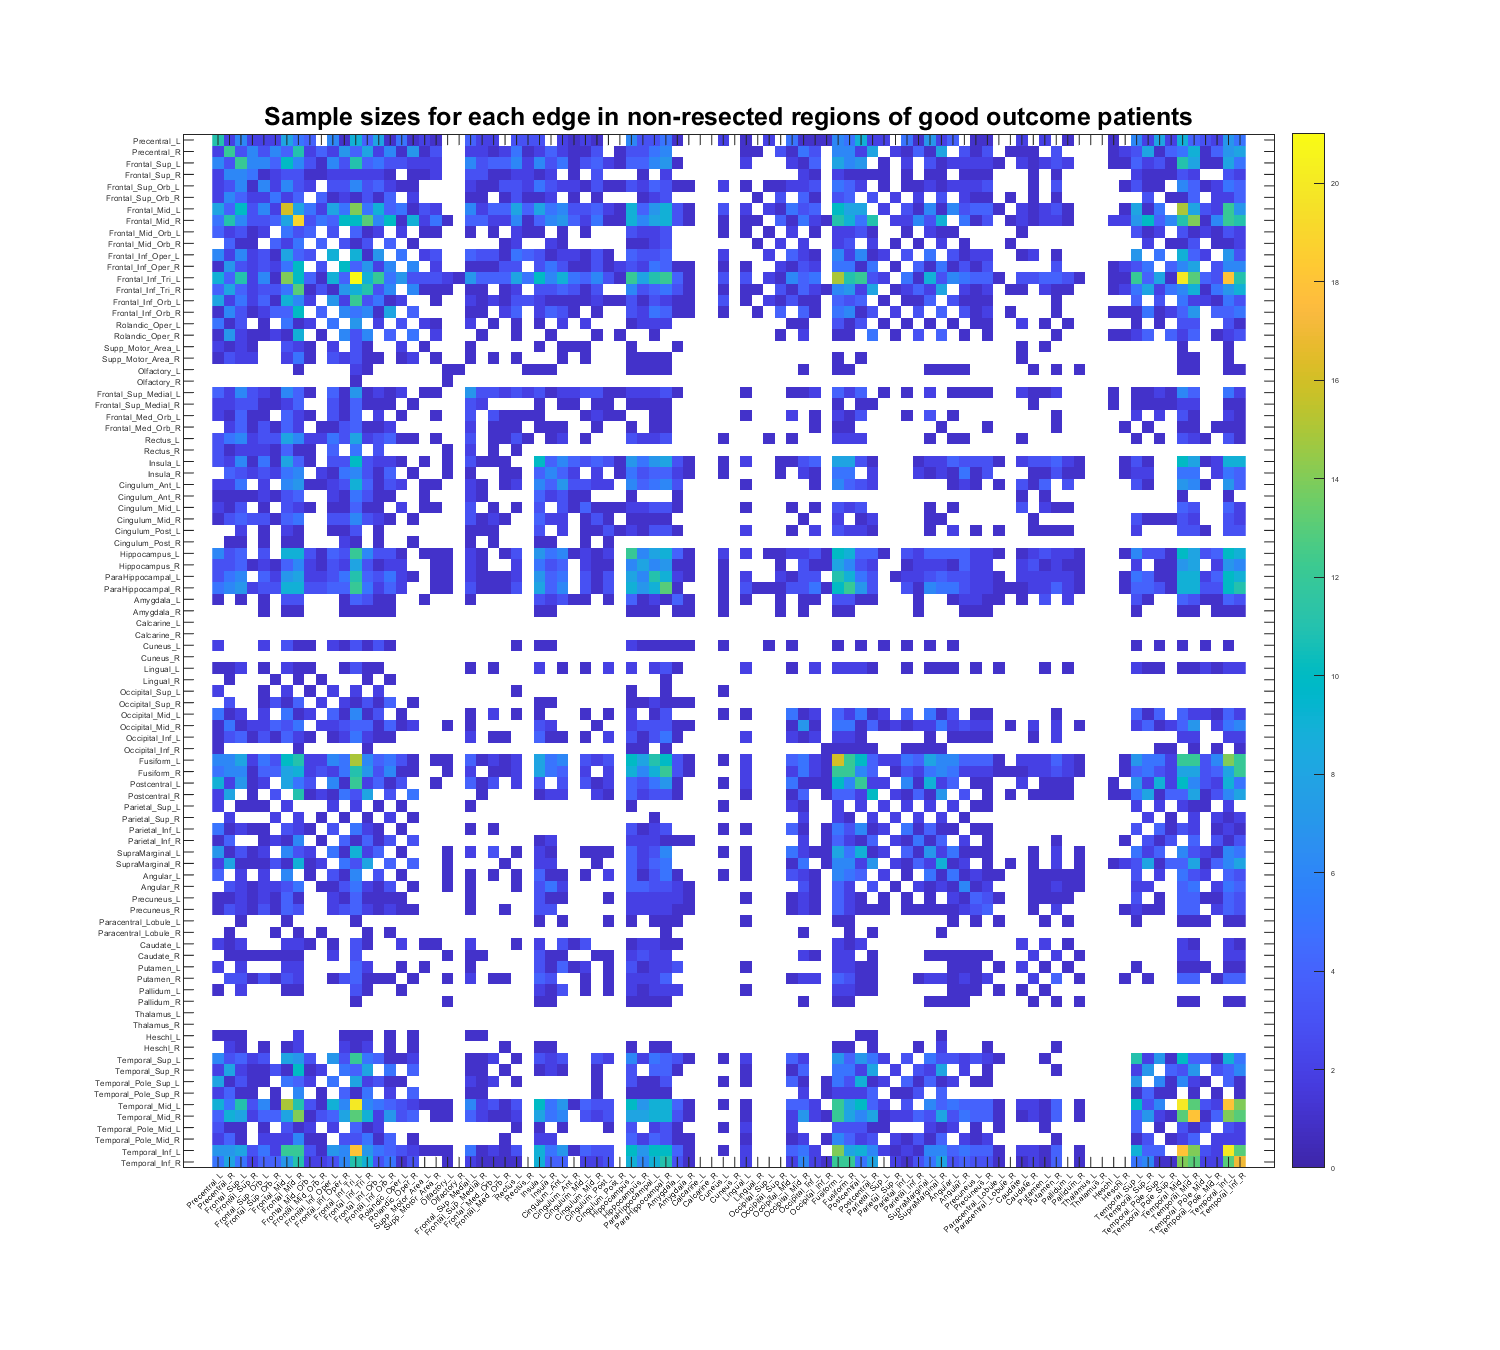
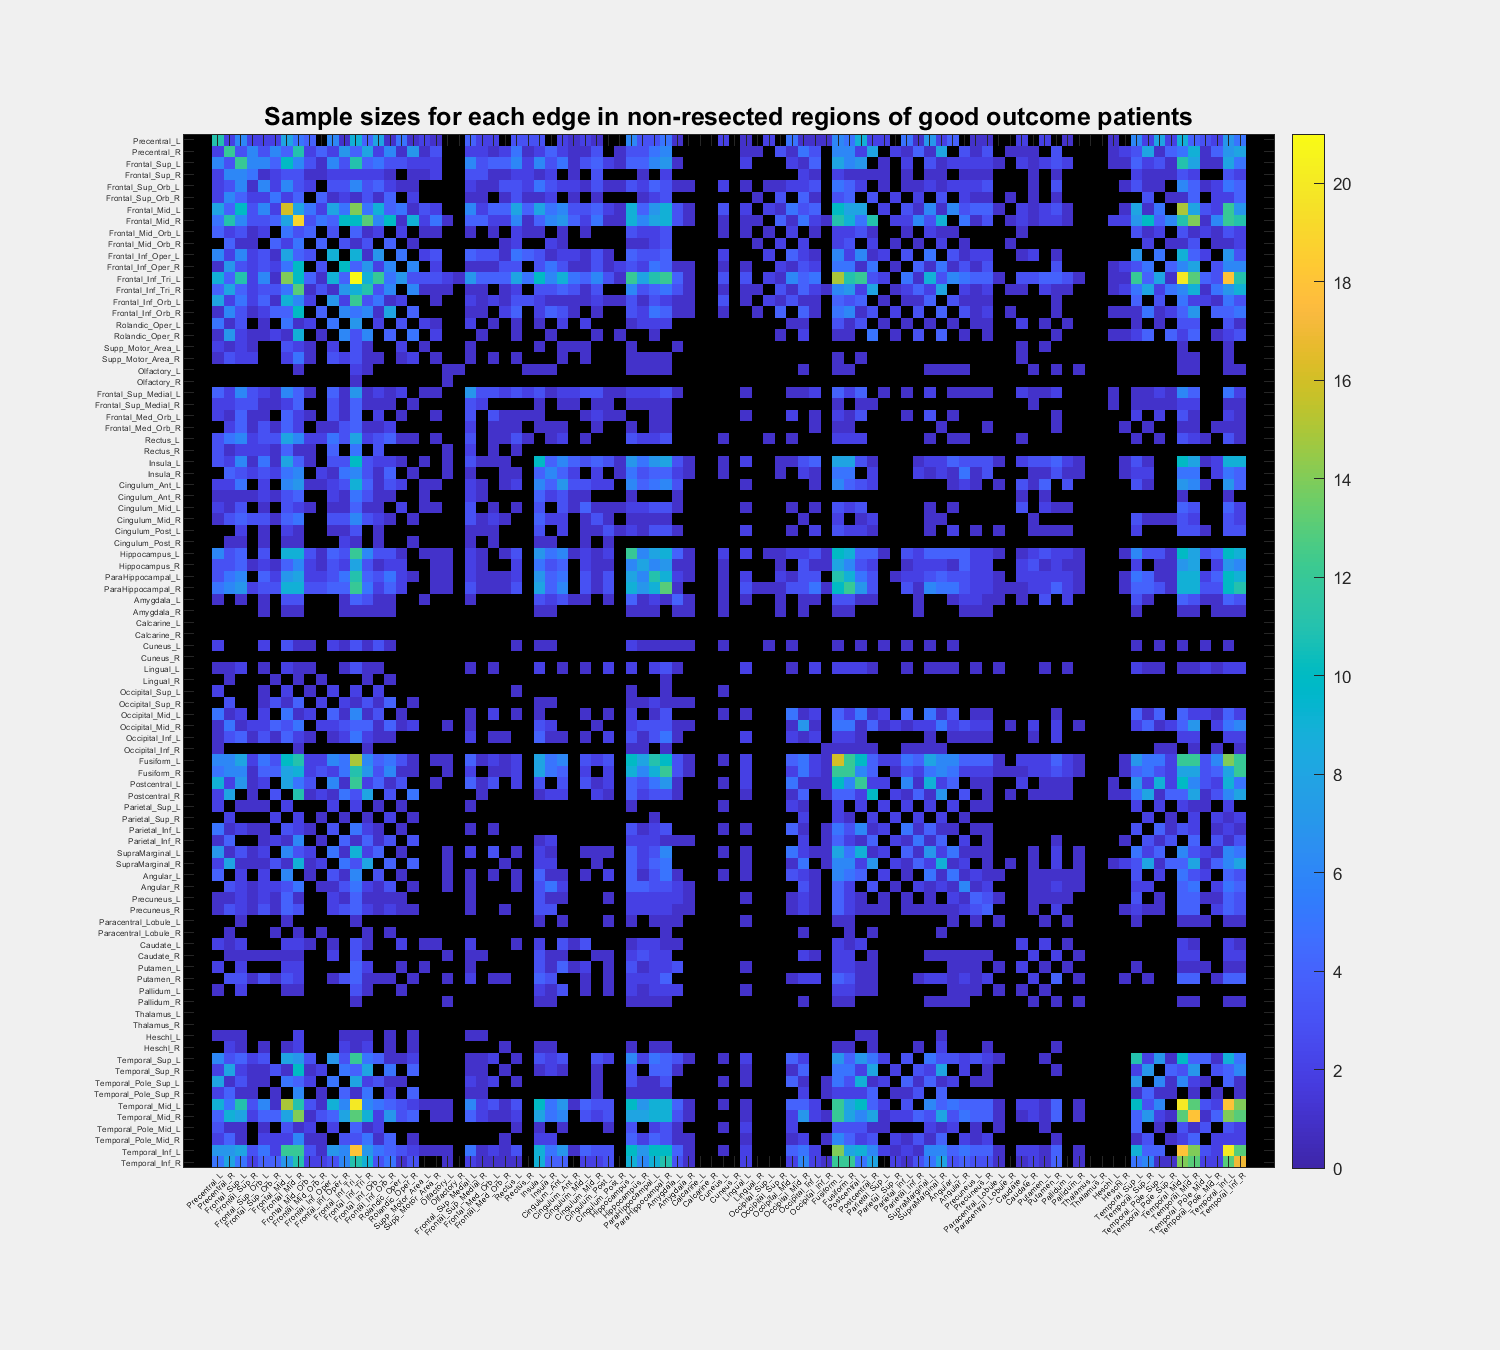
create_atlas_by_edge.m

Changed region(s): [[0.1227, 0.0933, 0.8587, 0.8711]]

diff --git a/util/create_atlas_by_edge.m b/util/create_atlas_by_edge.m
@@ -1,0 +1,138 @@
+function [mean_conn, std_conn, num_samples] = create_atlas_by_edge(all_conn, all_roi, all_resect, region_list, band, threshold)
+% [mean_conn, std_conn] = create_atlas_by_edge(all_conn, all_roi, all_resect, region_list)
+% takes in an array of conectivity structs, an array of 3D mni coordinate
+% arrays, an array of resected electrode vectors, and a vector containing
+% all mni labels, and outputs two matrices representing the average and
+% standard deviation of connections between all regions.
+%
+% Input:
+%   all_conn (cell): cell array containing patient connectivity structs in
+%   order
+%   all_roi (cell): cell array containing regions of interest corresponding
+%   to each electrode for each patient in order
+%   all_resect (cell): cell array containing patient resected electrode
+%   arrays in order
+%   region_list (double): array containing all region labels
+%   band (int): frequency band to be used
+%   threshold (int): minimum sample size required for edges to be
+%   incorporated into the atlas. Default value = 1
+%
+% Output:
+%   mean_conn (double): (i,j) matrix of mean connectivity strengths between 
+%   region_list(i) and region_list(j)
+%   std_conn (double): (i,j) matrix of standard deviations of connectivity 
+%   strengths between region_list(i) and region_list(j)
+%   num_samples (double): a matrix where entry (i,j) is the number of
+%   samples used to calculate the edge weight between region_list(i) and region_list(j)
+%
+% John Bernabei and Ian Ong
+% johnbe@seas.upenn.edu
+% ianzyong@seas.upenn.edu
+% 7/30/2020
+
+% helper function
+get_data = @(x) x(triu(true(size(x)),1));
+
+% sets default threshold value if none is given
+if ~exist('threshold','var'), threshold = 1; end
+
+% get number of patients
+num_patients = length(all_conn);
+
+% get number of regions
+num_regions = length(region_list);
+
+% initialize output arrays
+mean_conn = NaN(num_regions);
+std_conn = NaN(num_regions);
+num_samples = NaN(num_regions);
+
+% load in relevant matrices and resected electrodes for each patient
+band_matrices = cell(1,num_patients);
+resect_booleans = cell(1,num_patients);
+
+for p = 1:num_patients
+    % get resected electrodes for the patient
+    res_elec_inds = all_resect{p};
+    % orient vector vertically
+    res_elec_size = size(res_elec_inds);
+    if res_elec_size(1) == 1
+        res_elec_inds = res_elec_inds.';
+    end
+
+    % calculate logical with resected indices
+    try
+        resect_booleans{p} = cat(2,accumarray(res_elec_inds,1).',...
+        zeros(1,length(all_roi{p})-max(res_elec_inds)));
+    catch any_error
+        resect_booleans{p} = zeros(1,length(all_roi{p}));
+    end
+
+    % get connection strengths between each pair of electrodes
+    adj_matrix = all_conn{p};
+    % extract band data
+    band_matrices{p} = adj_matrix(band).data;
+end
+
+% double loop through regions
+for i = 1:num_regions % first region
+
+    for j = i:num_regions % second region
+        
+        % set up array to hold all edge values
+        edge_values_for_region_pair = cell(num_patients,1);
+        
+        % counter for number of data points for this region pair
+        sample_counter = 0;
+        
+        for p = 1:num_patients
+            
+            % get electrodes contained within first region
+            first_reg_elec = (all_roi{p} == region_list(i) & ~resect_booleans{p});
+        
+            % extract rows corresponding to electrodes in the first region
+            current_matrix = band_matrices{p};
+            first_reg_strengths = current_matrix(first_reg_elec,:);
+            
+            % get electrodes contained within second region
+            second_reg_elec = (all_roi{p} == region_list(j) & ~resect_booleans{p});
+
+            % extract connection strengths between the two regions
+            patient_strengths = first_reg_strengths(:,second_reg_elec);
+            
+            if i == j % loop case
+                % get only the upper triangular data since it's symmetric
+                patient_strengths = get_data(patient_strengths);
+            else % assuming regions are spatially disjoint
+                patient_strengths = patient_strengths(:);
+            end
+            
+            % add number of edges to the counter
+            sample_counter = sample_counter + length(patient_strengths);
+            
+            % store electrode edges for this region pair in this patient
+            edge_values_for_region_pair{p} = patient_strengths;
+            
+        end
+        
+        % record mean and std if the number of edges exceeds the threshold
+        if sample_counter >= threshold
+            % take the average and standard deviation of all edge values for
+            % the region pair and place both in the corresponding output arrays
+            mean_conn(i,j) = mean(cell2mat(edge_values_for_region_pair));
+            std_conn(i,j) = std(cell2mat(edge_values_for_region_pair));
+        end
+        
+        % record the number of edges for this region pair
+        num_samples(i,j) = sample_counter;
+        
+    end
+    
+end
+
+% symmetrize all output matrices
+mean_conn = triu(mean_conn) + tril(mean_conn.',-1);
+std_conn = triu(std_conn) + tril(std_conn.',-1);
+num_samples = triu(num_samples) + tril(num_samples.',-1);
+
+end

diff --git a/analysis/create_project_figures.m b/analysis/create_project_figures.m
@@ -229,9 +229,11 @@ for f = 1:5
     xtickangle(45)
     set(gca,'ytick',(1:90),'yticklabel',all_locs)
     set(gca,'fontsize', 4)
-    colorbar
+    cb = colorbar;
+    cb.FontSize = 8;
     title(sprintf('Connectivity atlas of non-resected regions in good outcome patients (band %d)',test_band),'fontsize',12)
-    save_name = sprintf('output/non_resected_good_outcome_atlas_band_%d.png',test_band);
+    save_name = sprintf('output/supplemental_figures/non_resected_good_outcome_atlas_band_%d.png',test_band);
+    fig.InvertHardcopy = 'off';
     saveas(fig,save_name) % save plot to output folder
 end
 
@@ -249,9 +251,11 @@ set(gca,'xtick',(1:90),'xticklabel',all_locs)
 xtickangle(45)
 set(gca,'ytick',(1:90),'yticklabel',all_locs)
 set(gca,'fontsize', 4)
-colorbar
+cb = colorbar;
+cb.FontSize = 8;
 title(sprintf('Sample sizes for each edge in non-resected regions of good outcome patients'),'fontsize',12)
 save_name = sprintf('output/supplemental_figures/non_resected_good_outcome_sample_sizes.png');
+fig.InvertHardcopy = 'off';
 saveas(fig,save_name) % save plot to output folder
 
 %%
@@ -1162,4 +1166,51 @@ end
 
 % quantify and compare results
 
+%% testing create_atlas_by_edge
+test_band = 1;
+test_threshold = 3;
+[mean_conn, std_conn, num_conn] = create_atlas_by_edge({cv_patients.conn}, {cv_patients.roi}, {cv_patients.resect}, region_list, test_band, test_threshold);
 
+figure;
+fig = gcf;
+set(fig,'defaultAxesTickLabelInterpreter','none'); 
+set(gcf,'Units','inches','Position',[(screen_dims(3)-figure_width)/2, (screen_dims(4)-figure_width)/2, figure_width, figure_width-1])
+imagesc(num_conn,'AlphaData',~(num_conn==0))
+axis(gca,'equal');
+set(gca,'color',0*[1 1 1]);
+set(gca,'xtick',(1:90),'xticklabel',all_locs)
+xtickangle(45)
+set(gca,'ytick',(1:90),'yticklabel',all_locs)
+set(gca,'fontsize', 4)
+cb = colorbar;
+cb.FontSize = 8;
+title(sprintf('Electrode-level sample sizes for each edge in non-resected regions of good outcome patients'),'fontsize',12)
+save_name = sprintf('output/supplemental_figures/non_resected_good_outcome_electrode_level_sample_sizes.png');
+fig.InvertHardcopy = 'off';
+saveas(fig,save_name) % save plot to output folder
+
+for f = 1:5
+    test_band = f;
+
+    % run all good outcome patients in atlas
+    [mean_conn, std_conn, num_conn] = create_atlas_by_edge({cv_patients.conn}, {cv_patients.roi}, {cv_patients.resect}, region_list, test_band, test_threshold);
+
+    % visualize adjacency matrices with labels added
+    figure;
+    fig = gcf;
+    set(fig,'defaultAxesTickLabelInterpreter','none'); 
+    set(gcf,'Units','inches','Position',[(screen_dims(3)-figure_width)/2, (screen_dims(4)-figure_width)/2, figure_width, figure_width-1])
+    imagesc(mean_conn,'AlphaData',~isnan(mean_conn))
+    axis(gca,'equal');
+    set(gca,'color',0*[1 1 1]);
+    set(gca,'xtick',(1:90),'xticklabel',all_locs)
+    xtickangle(45)
+    set(gca,'ytick',(1:90),'yticklabel',all_locs)
+    set(gca,'fontsize', 4)
+    cb = colorbar;
+    cb.FontSize = 8;
+    title(sprintf('Electrode-level connectivity atlas of non-resected regions in good outcome patients (band %d)',test_band),'fontsize',12)
+    save_name = sprintf('output/supplemental_figures/electrode_level_non_resected_good_outcome_atlas_band_%d.png',test_band);
+    fig.InvertHardcopy = 'off';
+    saveas(fig,save_name) % save plot to output folder
+end
